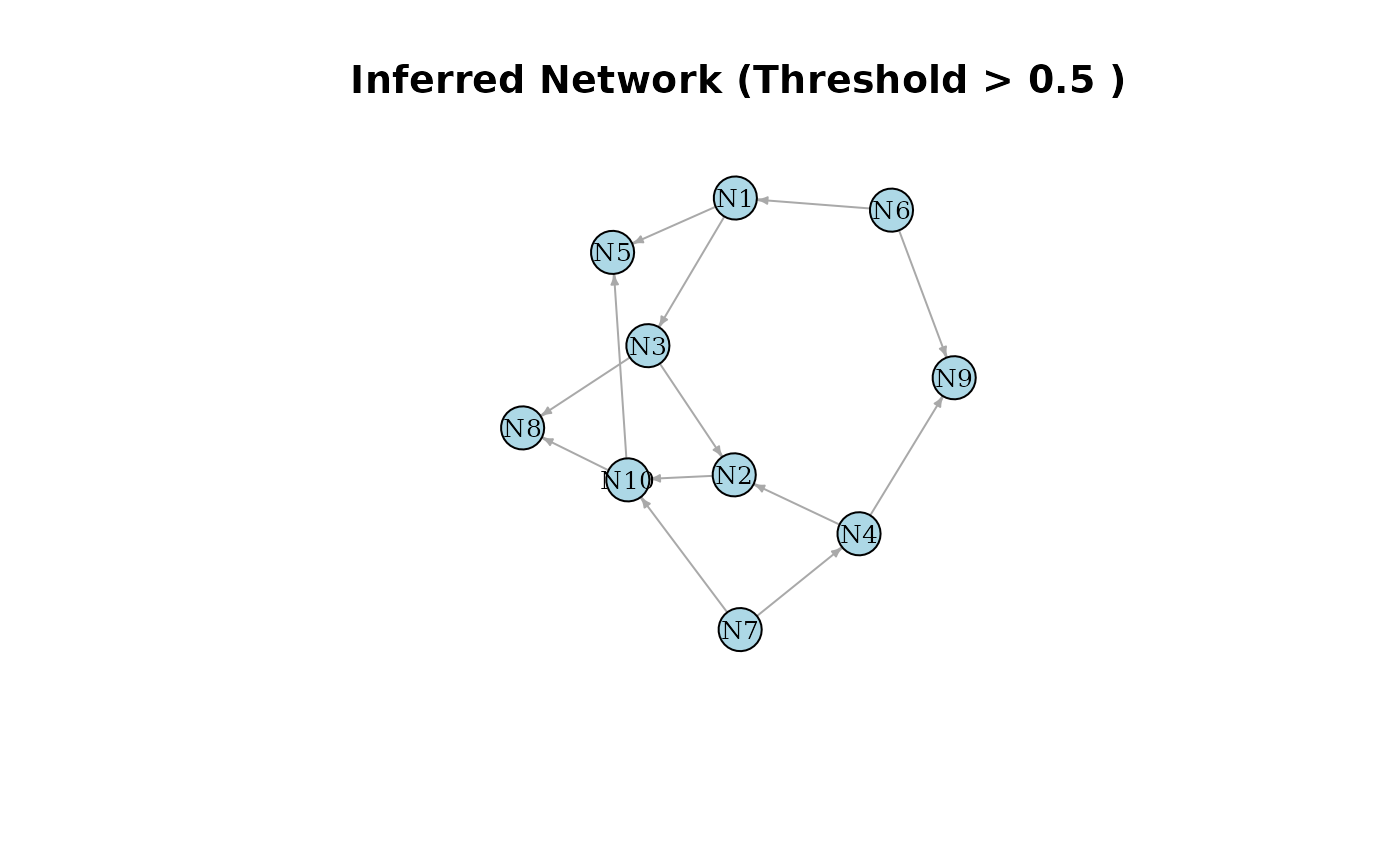
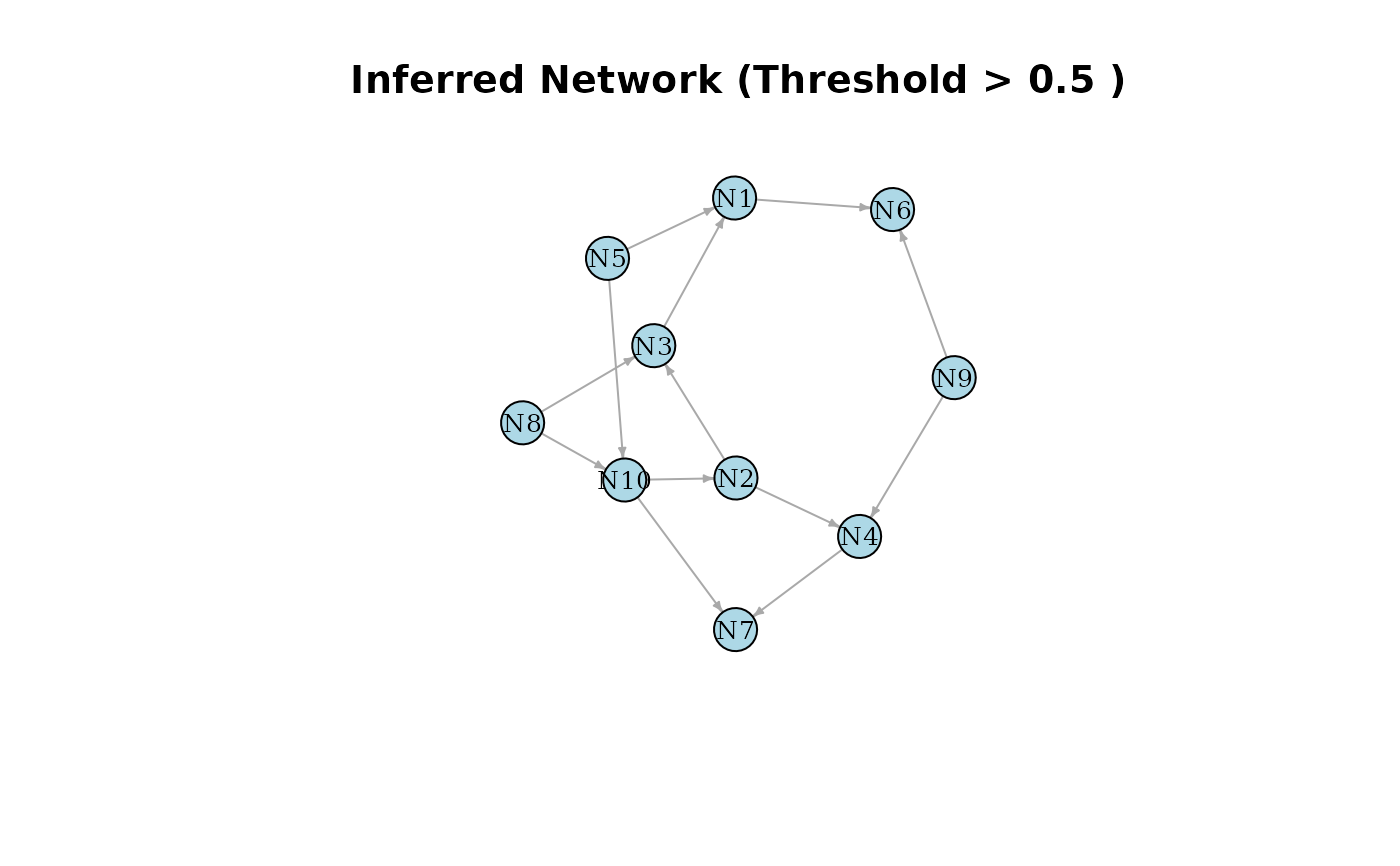
Deploying to gh-pages from @ anson-li8/BBNI@4a4979b1857b2d008e9202d580e84459513fac0e 🚀

diff --git a/reference/GenerateSample.html b/reference/GenerateSample.html
@@ -1,18 +1,20 @@
 <!DOCTYPE html>
-<!-- Generated by pkgdown: do not edit by hand --><html lang="en-US"><head><meta http-equiv="Content-Type" content="text/html; charset=UTF-8"><meta charset="utf-8"><meta http-equiv="X-UA-Compatible" content="IE=edge"><meta name="viewport" content="width=device-width, initial-scale=1, shrink-to-fit=no"><title>Simulate Time-Series Observation Dataset — GenerateSample • BBNI</title><!-- mathjax math --><script src="https://cdn.jsdelivr.net/npm/mathjax@3.2.2/es5/tex-mml-chtml.js" integrity="sha256-MASABpB4tYktI2Oitl4t+78w/lyA+D7b/s9GEP0JOGI=" crossorigin="anonymous"></script><script>
+<!-- Generated by pkgdown: do not edit by hand --><html lang="en-US"><head><meta http-equiv="Content-Type" content="text/html; charset=UTF-8"><meta charset="utf-8"><meta http-equiv="X-UA-Compatible" content="IE=edge"><meta name="viewport" content="width=device-width, initial-scale=1, shrink-to-fit=no"><title>Simulate Boolean Network Observation Dataset — GenerateSample • BBNI</title><!-- mathjax math --><script src="https://cdn.jsdelivr.net/npm/mathjax@3.2.2/es5/tex-mml-chtml.js" integrity="sha256-MASABpB4tYktI2Oitl4t+78w/lyA+D7b/s9GEP0JOGI=" crossorigin="anonymous"></script><script>
   window.MathJax = {
     chtml: {
       fontURL: "https://cdn.jsdelivr.net/npm/mathjax@3.2.2/es5/output/chtml/fonts/woff-v2"
     }
   };
-</script><script src="../deps/jquery-3.6.0/jquery-3.6.0.min.js"></script><meta name="viewport" content="width=device-width, initial-scale=1, shrink-to-fit=no"><link href="../deps/bootstrap-5.3.8/bootstrap.min.css" rel="stylesheet"><script src="../deps/bootstrap-5.3.8/bootstrap.bundle.min.js"></script><link href="../deps/font-awesome-6.5.2/css/all.min.css" rel="stylesheet"><link href="../deps/font-awesome-6.5.2/css/v4-shims.min.css" rel="stylesheet"><script src="../deps/headroom-0.11.0/headroom.min.js"></script><script src="../deps/headroom-0.11.0/jQuery.headroom.min.js"></script><script src="../deps/bootstrap-toc-1.0.1/bootstrap-toc.min.js"></script><script src="../deps/clipboard.js-2.0.11/clipboard.min.js"></script><script src="../deps/search-1.0.0/autocomplete.jquery.min.js"></script><script src="../deps/search-1.0.0/fuse.min.js"></script><script src="../deps/search-1.0.0/mark.min.js"></script><!-- pkgdown --><script src="../pkgdown.js"></script><meta property="og:title" content="Simulate Time-Series Observation Dataset — GenerateSample"><meta name="description" content="Simulates a synthetic time-series observation dataset (\(G\)).
-It starts by running independent Bernoulli trials on root nodes.
-The remaining non-root nodes are calculated from time \(t-1\) to time \(t\) using their assigned Boolean logic functions.
+</script><script src="../deps/jquery-3.6.0/jquery-3.6.0.min.js"></script><meta name="viewport" content="width=device-width, initial-scale=1, shrink-to-fit=no"><link href="../deps/bootstrap-5.3.8/bootstrap.min.css" rel="stylesheet"><script src="../deps/bootstrap-5.3.8/bootstrap.bundle.min.js"></script><link href="../deps/font-awesome-6.5.2/css/all.min.css" rel="stylesheet"><link href="../deps/font-awesome-6.5.2/css/v4-shims.min.css" rel="stylesheet"><script src="../deps/headroom-0.11.0/headroom.min.js"></script><script src="../deps/headroom-0.11.0/jQuery.headroom.min.js"></script><script src="../deps/bootstrap-toc-1.0.1/bootstrap-toc.min.js"></script><script src="../deps/clipboard.js-2.0.11/clipboard.min.js"></script><script src="../deps/search-1.0.0/autocomplete.jquery.min.js"></script><script src="../deps/search-1.0.0/fuse.min.js"></script><script src="../deps/search-1.0.0/mark.min.js"></script><!-- pkgdown --><script src="../pkgdown.js"></script><meta property="og:title" content="Simulate Boolean Network Observation Dataset — GenerateSample"><meta name="description" content="Simulates a synthetic binary observation dataset (\(G\)) based on a given
+directed acyclic graph topology with Boolean rules. It starts by running
+independent Bernoulli trials on root nodes. The remaining non-root nodes
+are calculated based on their assigned Boolean logic functions and parent states.
 A pre-generated binary noise matrix is applied via a bitwise XOR operation
 to occasionally flip the Boolean outputs, injecting natural biological
-noise expected by the model."><meta property="og:description" content="Simulates a synthetic time-series observation dataset (\(G\)).
-It starts by running independent Bernoulli trials on root nodes.
-The remaining non-root nodes are calculated from time \(t-1\) to time \(t\) using their assigned Boolean logic functions.
+noise expected by the model."><meta property="og:description" content="Simulates a synthetic binary observation dataset (\(G\)) based on a given
+directed acyclic graph topology with Boolean rules. It starts by running
+independent Bernoulli trials on root nodes. The remaining non-root nodes
+are calculated based on their assigned Boolean logic functions and parent states.
 A pre-generated binary noise matrix is applied via a bitwise XOR operation
 to occasionally flip the Boolean outputs, injecting natural biological
 noise expected by the model."></head><body>
@@ -45,15 +47,16 @@ noise expected by the model."></head><body>
 <div class="row">
   <main id="main" class="col-md-9"><div class="page-header">
 
-      <h1>Simulate Time-Series Observation Dataset</h1>
+      <h1>Simulate Boolean Network Observation Dataset</h1>
       <small class="dont-index">Source: <a href="https://github.com/anson-li8/BBNI/blob/master/R/simulate.R" class="external-link"><code>R/simulate.R</code></a></small>
       <div class="d-none name"><code>GenerateSample.Rd</code></div>
     </div>
 
     <div class="ref-description section level2">
-    <p>Simulates a synthetic time-series observation dataset (\(G\)).
-It starts by running independent Bernoulli trials on root nodes.
-The remaining non-root nodes are calculated from time \(t-1\) to time \(t\) using their assigned Boolean logic functions.
+    <p>Simulates a synthetic binary observation dataset (\(G\)) based on a given
+directed acyclic graph topology with Boolean rules. It starts by running
+independent Bernoulli trials on root nodes. The remaining non-root nodes
+are calculated based on their assigned Boolean logic functions and parent states.
 A pre-generated binary noise matrix is applied via a bitwise XOR operation
 to occasionally flip the Boolean outputs, injecting natural biological
 noise expected by the model.</p>
@@ -66,7 +69,8 @@ noise expected by the model.</p>
 <span>  SampleSize <span class="op">=</span> <span class="fl">50</span>,</span>
 <span>  num.node <span class="op">=</span> <span class="fu"><a href="https://rdrr.io/r/base/nrow.html" class="external-link">nrow</a></span><span class="op">(</span><span class="va">trans_matrix</span><span class="op">)</span>,</span>
 <span>  para <span class="op">=</span> <span class="fu"><a href="https://rdrr.io/r/base/rep.html" class="external-link">rep</a></span><span class="op">(</span><span class="fl">0.5</span>, <span class="fu"><a href="https://rdrr.io/r/base/nrow.html" class="external-link">nrow</a></span><span class="op">(</span><span class="va">trans_matrix</span><span class="op">)</span><span class="op">)</span>,</span>
-<span>  error <span class="op">=</span> <span class="fu"><a href="https://rdrr.io/r/base/matrix.html" class="external-link">matrix</a></span><span class="op">(</span><span class="fl">0</span>, nrow <span class="op">=</span> <span class="fu"><a href="https://rdrr.io/r/base/nrow.html" class="external-link">nrow</a></span><span class="op">(</span><span class="va">trans_matrix</span><span class="op">)</span>, ncol <span class="op">=</span> <span class="va">SampleSize</span><span class="op">)</span></span>
+<span>  error <span class="op">=</span> <span class="fu"><a href="https://rdrr.io/r/base/matrix.html" class="external-link">matrix</a></span><span class="op">(</span><span class="fl">0</span>, nrow <span class="op">=</span> <span class="fu"><a href="https://rdrr.io/r/base/nrow.html" class="external-link">nrow</a></span><span class="op">(</span><span class="va">trans_matrix</span><span class="op">)</span>, ncol <span class="op">=</span> <span class="va">SampleSize</span><span class="op">)</span>,</span>
+<span>  timeseries <span class="op">=</span> <span class="cn">TRUE</span></span>
 <span><span class="op">)</span></span></code></pre></div>
     </div>
 
@@ -79,7 +83,7 @@ noise expected by the model.</p>
 
 
 <dt id="arg-samplesize">SampleSize<a class="anchor" aria-label="anchor" href="#arg-samplesize"></a></dt>
-<dd><p>An integer representing the total number of time points to simulate. Defaults to 50 if not specified.</p></dd>
+<dd><p>An integer representing the total number of samples or time points to simulate. Defaults to 50 if not specified.</p></dd>
 
 
 <dt id="arg-num-node">num.node<a class="anchor" aria-label="anchor" href="#arg-num-node"></a></dt>
@@ -93,15 +97,20 @@ noise expected by the model.</p>
 <dt id="arg-error">error<a class="anchor" aria-label="anchor" href="#arg-error"></a></dt>
 <dd><p>A pre-generated binary noise matrix applied to occasionally flip Boolean outputs, injecting natural noise. Defaults to a zero matrix of size <code>nrow(trans_matrix) x SampleSize</code> if not specified (no noise).</p></dd>
 
+
+<dt id="arg-timeseries">timeseries<a class="anchor" aria-label="anchor" href="#arg-timeseries"></a></dt>
+<dd><p>Logical. If TRUE, simulates time-lagged data where child state at time \(t\) is determined by parent stated at \(t-1\). If FALSE, simulates independent samples where child and parent states are resolved simultaneously. Defaults to TRUE.</p></dd>
+
 </dl></div>
     <div class="section level2">
     <h2 id="value">Value<a class="anchor" aria-label="anchor" href="#value"></a></h2>
-    <p>A simulated binary gene expression matrix \(G\), where rows represent individual genes/nodes and columns represent sequential points in time.</p>
+    <p>A simulated binary gene expression matrix \(G\), where rows represent individual genes/nodes and columns represent samples.</p>
     </div>
 
     <div class="section level2">
     <h2 id="ref-examples">Examples<a class="anchor" aria-label="anchor" href="#ref-examples"></a></h2>
-    <div class="sourceCode"><pre class="sourceCode r"><code><span class="r-in"><span><span class="co"># 1. Generate a 5-node network</span></span></span>
+    <div class="sourceCode"><pre class="sourceCode r"><code><span class="r-in"><span><span class="co"># \donttest{</span></span></span>
+<span class="r-in"><span><span class="co"># 1. Generate a 5-node network</span></span></span>
 <span class="r-in"><span><span class="fu"><a href="https://rdrr.io/r/base/Random.html" class="external-link">set.seed</a></span><span class="op">(</span><span class="fl">123</span><span class="op">)</span></span></span>
 <span class="r-in"><span><span class="va">num_nodes</span> <span class="op">&lt;-</span> <span class="fl">5</span></span></span>
 <span class="r-in"><span><span class="va">sample_size</span> <span class="op">&lt;-</span> <span class="fl">10</span></span></span>
@@ -111,20 +120,22 @@ noise expected by the model.</p>
 <span class="r-in"><span><span class="va">root_probs</span> <span class="op">&lt;-</span> <span class="fu"><a href="https://rdrr.io/r/base/rep.html" class="external-link">rep</a></span><span class="op">(</span><span class="fl">0.5</span>, <span class="va">num_nodes</span><span class="op">)</span></span></span>
 <span class="r-in"><span><span class="va">error_matrix</span> <span class="op">&lt;-</span> <span class="fu"><a href="https://rdrr.io/r/base/matrix.html" class="external-link">matrix</a></span><span class="op">(</span><span class="fl">0</span>, nrow <span class="op">=</span> <span class="va">num_nodes</span>, ncol <span class="op">=</span> <span class="va">sample_size</span><span class="op">)</span></span></span>
 <span class="r-in"><span></span></span>
-<span class="r-in"><span><span class="co"># 3. Generate the synthetic time-series data</span></span></span>
+<span class="r-in"><span><span class="co"># 3. Generate cross-sectional (independent mode) synthetic data</span></span></span>
 <span class="r-in"><span><span class="va">dummy_data</span> <span class="op">&lt;-</span> <span class="fu">GenerateSample</span><span class="op">(</span></span></span>
 <span class="r-in"><span>  trans_matrix <span class="op">=</span> <span class="va">true_network</span>,</span></span>
 <span class="r-in"><span>  SampleSize <span class="op">=</span> <span class="va">sample_size</span>,</span></span>
 <span class="r-in"><span>  para <span class="op">=</span> <span class="va">root_probs</span>,</span></span>
-<span class="r-in"><span>  error <span class="op">=</span> <span class="va">error_matrix</span></span></span>
+<span class="r-in"><span>  error <span class="op">=</span> <span class="va">error_matrix</span>,</span></span>
+<span class="r-in"><span>  timeseries <span class="op">=</span> <span class="cn">FALSE</span></span></span>
 <span class="r-in"><span><span class="op">)</span></span></span>
 <span class="r-in"><span><span class="fu"><a href="https://rdrr.io/r/base/print.html" class="external-link">print</a></span><span class="op">(</span><span class="va">dummy_data</span><span class="op">)</span></span></span>
 <span class="r-out co"><span class="r-pr">#&gt;</span>      [,1] [,2] [,3] [,4] [,5] [,6] [,7] [,8] [,9] [,10]</span>
 <span class="r-out co"><span class="r-pr">#&gt;</span> [1,]    1    0    0    0    1    0    0    1    0     1</span>
-<span class="r-out co"><span class="r-pr">#&gt;</span> [2,]    0    0    1    0    0    0    1    0    0     1</span>
-<span class="r-out co"><span class="r-pr">#&gt;</span> [3,]    0    1    0    0    0    1    0    0    1     0</span>
-<span class="r-out co"><span class="r-pr">#&gt;</span> [4,]    0    1    0    0    0    1    0    0    1     0</span>
-<span class="r-out co"><span class="r-pr">#&gt;</span> [5,]    0    1    1    1    1    1    1    1    1     1</span>
+<span class="r-out co"><span class="r-pr">#&gt;</span> [2,]    1    0    0    0    1    0    0    1    0     1</span>
+<span class="r-out co"><span class="r-pr">#&gt;</span> [3,]    1    0    0    0    1    0    0    1    0     1</span>
+<span class="r-out co"><span class="r-pr">#&gt;</span> [4,]    1    0    0    0    1    0    0    1    0     1</span>
+<span class="r-out co"><span class="r-pr">#&gt;</span> [5,]    0    1    1    1    0    1    1    0    1     0</span>
+<span class="r-in"><span><span class="co"># }</span></span></span>
 <span class="r-in"><span></span></span>
 </code></pre></div>
     </div>

diff --git a/reference/index.html b/reference/index.html
@@ -60,7 +60,7 @@
           <code><a href="GenerateSample.html">GenerateSample()</a></code>
 
         </dt>
-        <dd>Simulate Time-Series Observation Dataset</dd>
+        <dd>Simulate Boolean Network Observation Dataset</dd>
 
         <dt>
 

diff --git a/reference/GenerateSample.md b/reference/GenerateSample.md
@@ -1,12 +1,12 @@
-# Simulate Time-Series Observation Dataset
+# Simulate Boolean Network Observation Dataset
 
-Simulates a synthetic time-series observation dataset (\\G\\). It starts
-by running independent Bernoulli trials on root nodes. The remaining
-non-root nodes are calculated from time \\t-1\\ to time \\t\\ using
-their assigned Boolean logic functions. A pre-generated binary noise
-matrix is applied via a bitwise XOR operation to occasionally flip the
-Boolean outputs, injecting natural biological noise expected by the
-model.
+Simulates a synthetic binary observation dataset (\\G\\) based on a
+given directed acyclic graph topology with Boolean rules. It starts by
+running independent Bernoulli trials on root nodes. The remaining
+non-root nodes are calculated based on their assigned Boolean logic
+functions and parent states. A pre-generated binary noise matrix is
+applied via a bitwise XOR operation to occasionally flip the Boolean
+outputs, injecting natural biological noise expected by the model.
 
 ## Usage
 
@@ -16,7 +16,8 @@ GenerateSample(
   SampleSize = 50,
   num.node = nrow(trans_matrix),
   para = rep(0.5, nrow(trans_matrix)),
-  error = matrix(0, nrow = nrow(trans_matrix), ncol = SampleSize)
+  error = matrix(0, nrow = nrow(trans_matrix), ncol = SampleSize),
+  timeseries = TRUE
 )
 ```
 
@@ -29,8 +30,8 @@ GenerateSample(
 
 - SampleSize:
 
-  An integer representing the total number of time points to simulate.
-  Defaults to 50 if not specified.
+  An integer representing the total number of samples or time points to
+  simulate. Defaults to 50 if not specified.
 
 - num.node:
 
@@ -50,14 +51,22 @@ GenerateSample(
   Boolean outputs, injecting natural noise. Defaults to a zero matrix of
   size `nrow(trans_matrix) x SampleSize` if not specified (no noise).
 
+- timeseries:
+
+  Logical. If TRUE, simulates time-lagged data where child state at time
+  \\t\\ is determined by parent stated at \\t-1\\. If FALSE, simulates
+  independent samples where child and parent states are resolved
+  simultaneously. Defaults to TRUE.
+
 ## Value
 
 A simulated binary gene expression matrix \\G\\, where rows represent
-individual genes/nodes and columns represent sequential points in time.
+individual genes/nodes and columns represent samples.
 
 ## Examples
 
 ``` r
+# \donttest{
 # 1. Generate a 5-node network
 set.seed(123)
 num_nodes <- 5
@@ -68,18 +77,20 @@ true_network <- GenerateNetwork(num.node = num_nodes)
 root_probs <- rep(0.5, num_nodes)
 error_matrix <- matrix(0, nrow = num_nodes, ncol = sample_size)
 
-# 3. Generate the synthetic time-series data
+# 3. Generate cross-sectional (independent mode) synthetic data
 dummy_data <- GenerateSample(
   trans_matrix = true_network,
   SampleSize = sample_size,
   para = root_probs,
-  error = error_matrix
+  error = error_matrix,
+  timeseries = FALSE
 )
 print(dummy_data)
 #>      [,1] [,2] [,3] [,4] [,5] [,6] [,7] [,8] [,9] [,10]
 #> [1,]    1    0    0    0    1    0    0    1    0     1
-#> [2,]    0    0    1    0    0    0    1    0    0     1
-#> [3,]    0    1    0    0    0    1    0    0    1     0
-#> [4,]    0    1    0    0    0    1    0    0    1     0
-#> [5,]    0    1    1    1    1    1    1    1    1     1
+#> [2,]    1    0    0    0    1    0    0    1    0     1
+#> [3,]    1    0    0    0    1    0    0    1    0     1
+#> [4,]    1    0    0    0    1    0    0    1    0     1
+#> [5,]    0    1    1    1    0    1    1    0    1     0
+# }
 ```

diff --git a/reference/index.md b/reference/index.md
@@ -5,7 +5,7 @@
 - [`GenerateNetwork()`](https://anson-li8.github.io/BBNI/reference/GenerateNetwork.md)
   : Generate Initial Network Topology
 - [`GenerateSample()`](https://anson-li8.github.io/BBNI/reference/GenerateSample.md)
-  : Simulate Time-Series Observation Dataset
+  : Simulate Boolean Network Observation Dataset
 - [`plot_bbni()`](https://anson-li8.github.io/BBNI/reference/plot_bbni.md)
   : Plot the Inferred Bayesian Boolean Network
 - [`plot_trace()`](https://anson-li8.github.io/BBNI/reference/plot_trace.md)